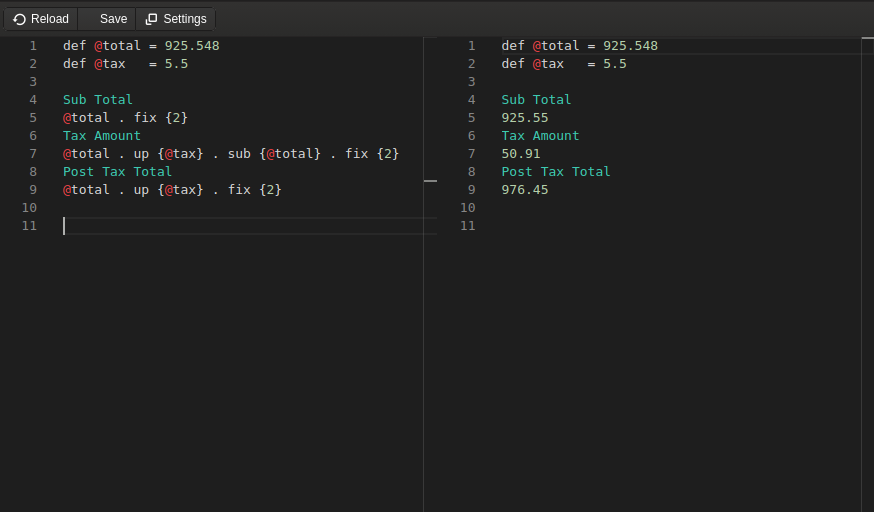
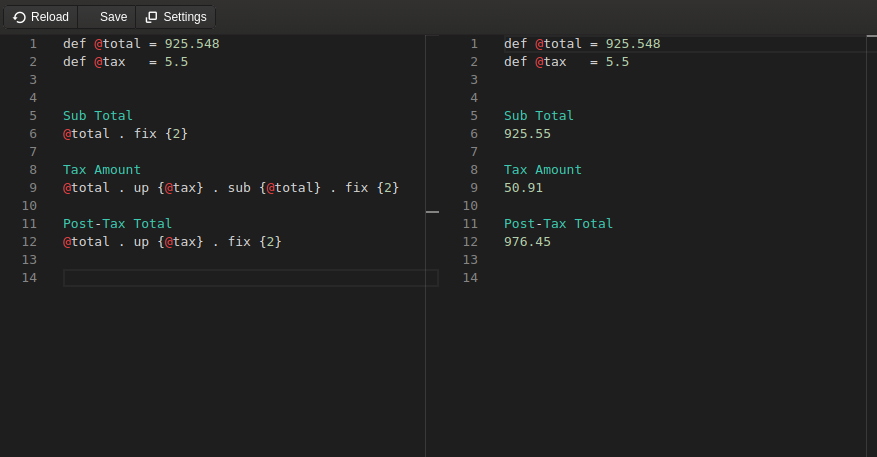
09-09-2021

diff --git a/README.md b/README.md
@@ -33,11 +33,6 @@ module.exports = {
 };
 ```
 
-Result in Evalit:
-
-[Invoice Example notepad](InvoiceExample.png)
-
-
 In the Evalit notepad:
 
 ```js
@@ -46,11 +41,17 @@ def @tax   = 5.5
 
 Sub Total
 @total . fix {2}
+
 Tax Amount
 @total . up {@tax} . sub {@total} . fix {2}
-Post Tax Total
+
+Post-Tax Total
 @total . up {@tax} . fix {2}
 ```
+
+Result in Evalit:
+
+[Invoice Example notepad](InvoiceExample.png)
 
 # Full instructions
 
